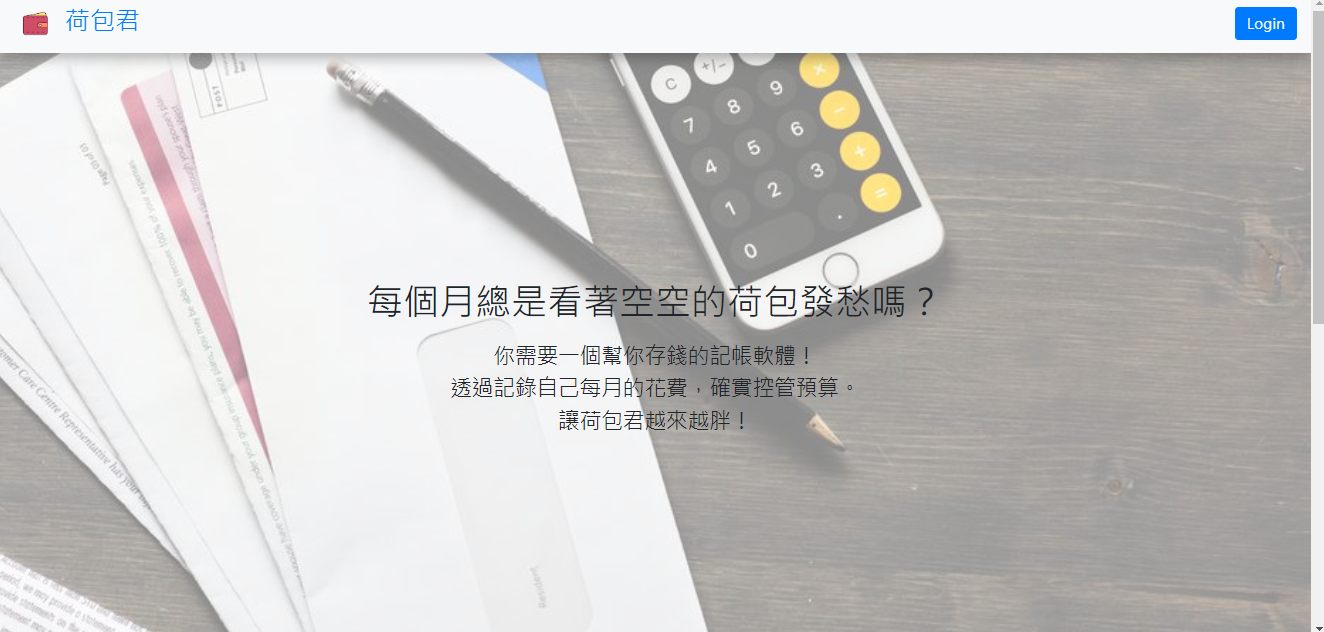
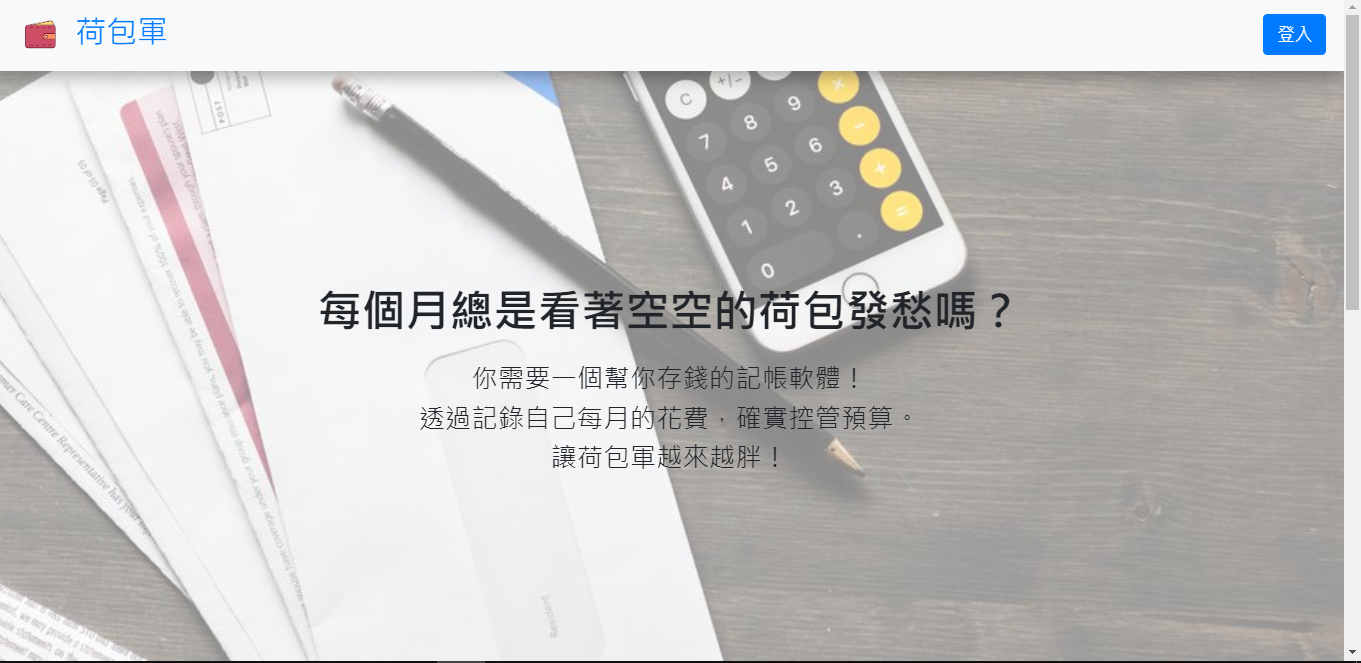
Add AOS plug-in and display fade in effect at landing page

diff --git a/public/javascripts/main.js b/public/javascripts/main.js
@@ -4,3 +4,6 @@ window.addEventListener('scroll', e => {
     var coords = (scrolled * 0.8) + 'px'
     parallax.style.transform = 'translateY(' + coords + ')';
 });
+
+AOS.init();
+

diff --git a/README.md b/README.md
@@ -64,6 +64,7 @@ db connected!
 
 ## Demo
 ![demo1](https://github.com/wowsushi/expense-tracker/blob/master/public/imgs/demo1.PNG?raw=true)
+![demo2](https://github.com/wowsushi/expense-tracker/blob/master/public/imgs/demo2.PNG?raw=true)
 ![demo3](https://github.com/wowsushi/expense-tracker/blob/master/public/imgs/demo3.PNG?raw=true)
 
 
